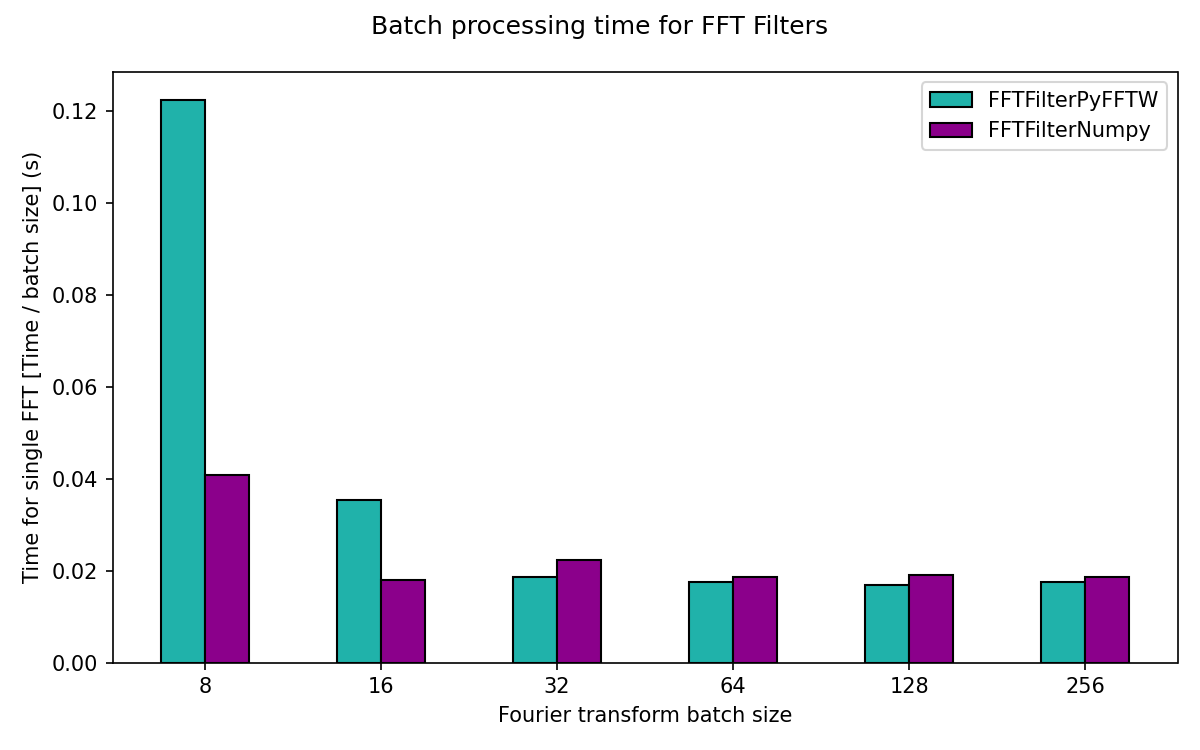
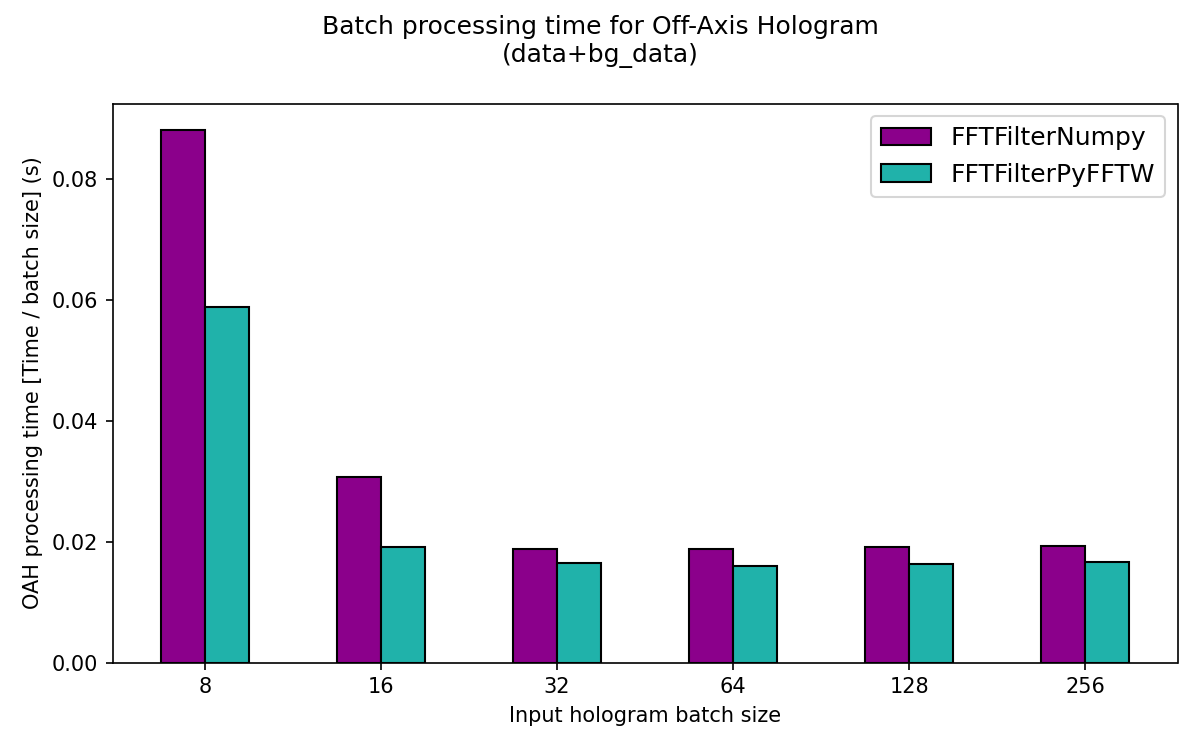
docs: improve fft speed example

diff --git a/examples/fft_batch_speeds.py b/examples/fft_batch_speeds.py
@@ -1,8 +1,9 @@
-"""Fourier Transform speed benchmarks
+"""Fourier Transform speed benchmarks for OAH
 
 This example visualizes the speed for different batch sizes for
-the available FFT Filters. The y-axis shows the average speed of a single
-FFT for the corresponding batch size.
+the available FFT Filters. The y-axis shows the average speed of a pipeline
+run for the Off-Axis Hologram class :class:`.OffAxisHologram`, including
+background data processing. Therefore, four FFTs are run per pipeline.
 
 - Optimum batch size is between 64 and 256 for 256x256pix imgs (incl padding),
   but will be limited by your computer's RAM.
@@ -14,6 +15,7 @@ import matplotlib.pylab as plt
 import numpy as np
 import qpretrieve
 from qpretrieve.data_array_layout import convert_data_to_3d_array_layout
+from qpretrieve.fourier import FFTFilterNumpy, FFTFilterPyFFTW
 
 # load the experimental data
 edata = np.load("./data/hologram_cell.npz")
@@ -21,7 +23,8 @@ edata = np.load("./data/hologram_cell.npz")
 n_transforms_list = [8, 16, 32, 64, 128, 256]
 subtract_mean = True
 padding = True
-fft_interfaces = qpretrieve.fourier.get_available_interfaces()
+# we take the PyFFTW speeds from the second run
+fft_interfaces = [FFTFilterNumpy, FFTFilterPyFFTW, FFTFilterPyFFTW]
 filter_name = "disk"
 filter_size = 1 / 2
 speed_norms = {}
@@ -58,8 +61,8 @@ for fft_interface in fft_interfaces:
         results[n_transforms] = t1 - t0
 
     speed_norm = [timing / b_size for b_size, timing in results.items()]
+    # the initial PyFFTW run (incl wisdom calc is overwritten here)
     speed_norms[fft_interface.__name__] = speed_norm
-
 
 # setup plot
 fig, axes = plt.subplots(1, 1, figsize=(8, 5))
@@ -67,7 +70,7 @@ ax1 = axes
 width = 0.25  # the width of the bars
 multiplier = 0
 x_pos = np.arange(len(n_transforms_list))
-colors = ["lightseagreen", "darkmagenta"]
+colors = ["darkmagenta", "lightseagreen"]
 
 for (name, speed), color in zip(speed_norms.items(), colors):
     offset = width * multiplier
@@ -75,12 +78,13 @@ for (name, speed), color in zip(speed_norms.items(), colors):
             color=color, edgecolor='k')
     multiplier += 1
 
-ax1.set_xticks(x_pos + (width/2), labels=n_transforms_list)
-ax1.set_xlabel("Fourier transform batch size")
-ax1.set_ylabel("Time for single FFT [Time / batch size] (s)")
-ax1.legend(loc='upper right')
+ax1.set_xticks(x_pos + (width / 2), labels=n_transforms_list)
+ax1.set_xlabel("Input hologram batch size")
+ax1.set_ylabel("OAH processing time [Time / batch size] (s)")
+ax1.legend(loc='upper right', fontsize="large")
 
-plt.suptitle("Batch processing time for FFT Filters")
+plt.suptitle("Batch processing time for Off-Axis Hologram\n"
+             "(data+bg_data)")
 plt.tight_layout()
 # plt.show()
 plt.savefig("fft_batch_speeds.png", dpi=150)

diff --git a/docs/sec_examples.rst b/docs/sec_examples.rst
@@ -13,6 +13,4 @@ Examples
 
 .. fancy_include:: fourier_scale.py
 
-.. fancy_include:: fft_options.py
-
 .. fancy_include:: fft_batch_speeds.py
